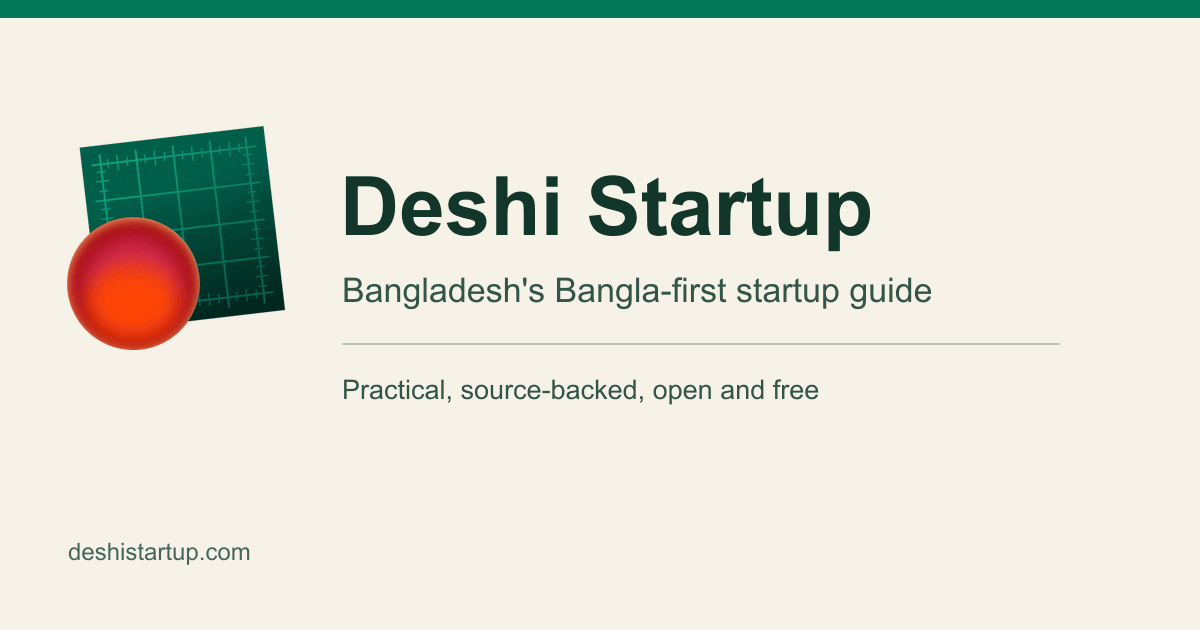
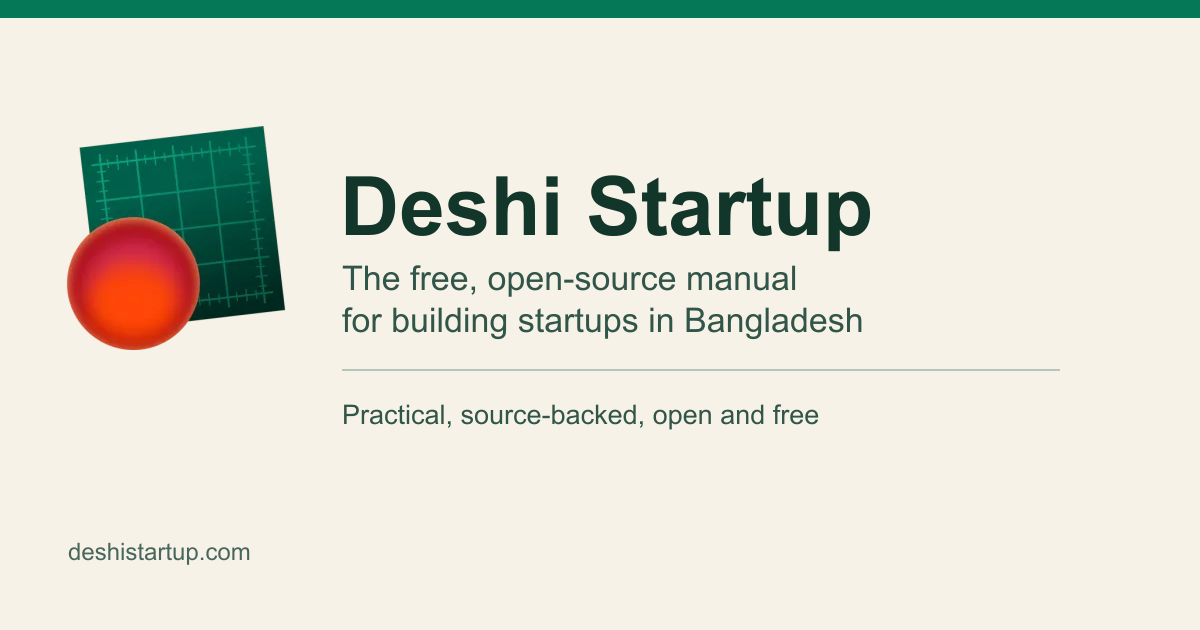
Align Deshi Startup positioning (#87)

Changed region(s): [[0.2775, 0.4222, 0.8633, 0.6937]]

diff --git a/app/components/WikiLanding.tsx b/app/components/WikiLanding.tsx
@@ -53,7 +53,7 @@ interface TranslationStrings {
 }
 
 const bn: TranslationStrings = {
-  kicker: 'বাংলাদেশে স্টার্টআপ গড়ার উন্মুক্ত গাইড',
+  kicker: 'বাংলাদেশে স্টার্টআপ গড়ার ফ্রি, ওপেন-সোর্স ম্যানুয়াল',
   title: 'দেশি স্টার্টআপ',
   subtitle:
     'আইডিয়া থেকে প্রথম কাস্টমার, ট্রেড লাইসেন্স থেকে পেমেন্ট, ফান্ডিং থেকে স্কেল। কী করবেন, ধাপে ধাপে সহজ বাংলায়।',
@@ -77,11 +77,11 @@ const bn: TranslationStrings = {
     'আইন, কর, ভ্যাট, ব্যাংকিং বা লাইসেন্স নিয়ে লেখাগুলো আপনাকে সিদ্ধান্ত নিতে সাহায্য করবে, তবে এগুলো আইনি বা কর পরামর্শ নয়। ফি, ফর্ম ও প্রক্রিয়া বদলাতে পারে, তাই কাজে নামার আগে সরকারি সোর্স দেখে নিন। দরকার হলে চার্টার্ড অ্যাকাউন্ট্যান্ট বা আইনজীবীর সঙ্গে মিলিয়ে নিন।',
   infoboxTitle: 'এক নজরে',
   infoboxName: 'দেশি স্টার্টআপ',
-  infoboxTagline: 'বাংলাদেশে স্টার্টআপ গড়ার উন্মুক্ত গাইড',
+  infoboxTagline: 'বাংলাদেশে স্টার্টআপ গড়ার ফ্রি, ওপেন-সোর্স ম্যানুয়াল',
   infobox: (written, stubs) => [
     ['যাদের জন্য', 'নতুন ফাউন্ডার, শিক্ষার্থী ও নারী উদ্যোক্তা, স্টার্টআপ টিম, প্রবাসী ফাউন্ডার'],
     ['যা পাবেন', 'আইডিয়া যাচাই, রেজিস্ট্রেশন, পেমেন্ট, বিক্রি, নিয়োগ, ফান্ডিং'],
-    ['ভাষা', 'সহজ বাংলা, দরকারি ইংরেজি টার্ম ব্যাখ্যাসহ'],
+    ['ভাষা', 'বাংলা ও ইংরেজি'],
     ['মূল্য', 'সম্পূর্ণ ফ্রি ও ওপেন সোর্স'],
     ['গাইড', `${bengaliDigits(written)}টি লেখা হয়েছে · ${bengaliDigits(stubs)}টি লেখার অপেক্ষায়`]
   ],
@@ -141,7 +141,7 @@ const bn: TranslationStrings = {
 }
 
 const en: TranslationStrings = {
-  kicker: 'The Bangladeshi startup manual',
+  kicker: 'The free, open-source manual for building startups in Bangladesh',
   title: 'Deshi Startup',
   subtitle:
     'Step-by-step guidance in plain language – from idea to first customer, trade license to payments, funding to scale.',
@@ -164,11 +164,11 @@ const en: TranslationStrings = {
     'Articles about law, tax, VAT, banking or licensing help you decide, but they are not legal or tax advice. Fees, forms and processes change; confirm with official sources and, where needed, a chartered accountant or lawyer before acting.',
   infoboxTitle: 'At a glance',
   infoboxName: 'Deshi Startup',
-  infoboxTagline: 'The Bangladeshi startup manual',
+  infoboxTagline: 'The free, open-source manual for building startups in Bangladesh',
   infobox: (written, stubs) => [
     ['For', 'New and women founders, student founders, startup teams, diaspora founders'],
     ['Covers', 'Idea validation, registration, payments, sales, hiring, funding'],
-    ['Language', 'Simple Bangla; English terms explained'],
+    ['Language', 'Bangla and English'],
     ['Price', 'Completely free; open source'],
     ['Guides', `${written} written · ${stubs} waiting for writers`]
   ],

diff --git a/app/components/LocalizedLayout.tsx b/app/components/LocalizedLayout.tsx
@@ -623,7 +623,7 @@ export default function LocalizedLayout({ children }: LocalizedLayoutProps) {
   useEffect(() => {
     document.documentElement.lang = isEn ? 'en' : 'bn'
     if (pathname === '/en') {
-      document.title = 'Deshi Startup – The Bangla-first guide to building a startup in Bangladesh'
+      document.title = 'Deshi Startup – The free, open-source manual for building startups in Bangladesh'
     }
   }, [isEn, pathname])
 
@@ -705,7 +705,7 @@ export default function LocalizedLayout({ children }: LocalizedLayoutProps) {
             <img src={localHref('/deshi-mark.webp')} alt="" width="50" height="50" />
             <span>
               <strong>{isEn ? 'Deshi Startup' : 'দেশি স্টার্টআপ'}</strong>
-              <small>{isEn ? 'The Bangladeshi startup manual' : 'বাংলাদেশে স্টার্টআপ গড়ার গাইড'}</small>
+              <small>{isEn ? 'Startup manual for Bangladesh' : 'বাংলাদেশে স্টার্টআপ গড়ার ম্যানুয়াল'}</small>
             </span>
           </a>
 
@@ -716,7 +716,7 @@ export default function LocalizedLayout({ children }: LocalizedLayoutProps) {
           <nav className="top-actions" aria-label={isEn ? 'Site actions' : 'সাইটের কাজ'}>
             {/* Both social links carry an aria-label: below 1180px the span is
                 display:none, which drops it from the accessibility tree, and
-                the icon is aria-hidden — without the label the link would have
+                the icon is aria-hidden; without the label the link would have
                 no accessible name at all in that range. */}
             <a
               className="social-link"

diff --git a/app/not-found.tsx b/app/not-found.tsx
@@ -4,8 +4,8 @@ import React, { useEffect, useState } from 'react'
 
 /**
  * One 404 document serves both trees, so the language cannot be decided at
- * build time. Render the Bengali source of truth first (it is the majority
- * case and the correct default), then correct to English after mount if the
+ * build time. Render the Bengali root-route locale first (it is the majority
+ * case), then correct to English after mount if the
  * reader actually landed under /en/. Reading the path in an effect rather
  * than during render keeps the server and first client pass identical, so
  * there is no hydration mismatch.

diff --git a/app/layout.tsx b/app/layout.tsx
@@ -16,7 +16,7 @@ j=d.createElement(s),dl=l!='dataLayer'?'&l='+l:'';j.async=true;j.src=
 
 export const metadata = {
   title: {
-    default: 'দেশি স্টার্টআপ – বাংলাদেশে স্টার্টআপ গড়ার উন্মুক্ত গাইড',
+    default: 'দেশি স্টার্টআপ – বাংলাদেশে স্টার্টআপ গড়ার ফ্রি, ওপেন-সোর্স ম্যানুয়াল',
     template: '%s | দেশি স্টার্টআপ'
   },
   description: DEFAULT_DESCRIPTIONS.bn,

diff --git a/app/(contents)/en/layout.tsx b/app/(contents)/en/layout.tsx
@@ -3,7 +3,7 @@ import { DEFAULT_DESCRIPTIONS } from '../../seo.config.mjs'
 
 export const metadata = {
   title: {
-    default: 'Deshi Startup – The Bangladeshi startup manual',
+    default: 'Deshi Startup – The free, open-source manual for building startups in Bangladesh',
     template: '%s | Deshi Startup'
   },
   description: DEFAULT_DESCRIPTIONS.en

diff --git a/plan/vision.md b/plan/vision.md
@@ -1,9 +1,9 @@
 # Vision
 
 Most startup guidance available to a founder in Bangladesh is scattered, written for another
-market/language or difficult to judge. Deshi Startup brings reliable sources and Bangladesh's practical
-experience together in one free, open manual, written in English with every guide available in
-natural Bangla.
+market or language, or difficult to judge. Deshi Startup brings reliable sources and Bangladesh's
+practical experience together in one free, open-source manual, published in matching Bangla and
+English editions.
 
 ## Mission
 
@@ -30,7 +30,10 @@ Every finished guide should be:
 
 - **Bangladesh-specific:** it accounts for local regulation, payments, sales behavior, logistics,
   trust, language and capital constraints.
-- **English-first, Bangla-native:** English is the canonical source edition; the Bangla edition is translated from the finished English guide and must read as if composed in Bangla, never as a word-for-word translation.
+- **Bangla and English:** every finished guide is published in matching English and Bangla
+  editions. English is the canonical authoring edition; the Bangla edition is translated from the
+  finished English guide and must read as if composed in Bangla, never as a word-for-word
+  translation. Both editions pass the same finish gates.
 - **Source-backed:** consequential claims use official or primary sources first, with dates where
   facts may change.
 - **Practical:** it helps the reader make a decision, complete a task or avoid a real mistake.
@@ -47,7 +50,8 @@ documents or harmful shortcuts.
 1. Start with a real founder question or task.
 2. Research official and primary sources for rules, fees and consequential claims.
 3. Use founder and specialist experience to explain what the formal sources do not show.
-4. Turn that evidence into a plain-English guide with a clear next action and, when useful, a checklist or tool; then translate it into natural Bangla.
+4. Turn that evidence into a plain-English guide with a clear next action and, when useful, a
+   checklist or tool; then produce the matching natural-Bangla edition and review both.
 5. Review the change publicly through a pull request. Credit people only with their permission.
 6. Re-check information that can change and correct it openly.
 
@@ -74,9 +78,10 @@ First make the manual useful, trusted and maintainable. Do not distract the team
 assistant, complex admin system, paid marketplace or legal automation. A future assistant may use
 only reviewed content, cite its sources, show freshness and admit uncertainty.
 
-Once the manual is strong, its material may support an open startup curriculum, original research
-and distribution through universities or other institutions. Those are extensions of the manual,
-not reasons to delay it.
+Alongside the manual, Deshi Startup may gradually grow a founder community, practical tools, shared
+infrastructure, an open startup curriculum and original research. Keep those extensions free and
+open source where practical, and use them to strengthen the manual rather than distract from or
+delay it.
 
 ## Success
 
@@ -85,6 +90,7 @@ Deshi Startup is working when:
 - a founder can reach a safe, useful next action without getting lost;
 - Bangladesh-specific realities are easier to understand and navigate;
 - important pages are cited, dated and corrected when circumstances change;
+- both editions remain accurate, useful and maintained;
 - Bengali explanations feel natural and usable;
 - founders and specialists make corrections, share experience and return to contribute again; and
 - the site remains free, fast, open and credible as it grows.

diff --git a/README.md b/README.md
@@ -21,12 +21,13 @@
 থাকলেও বাংলাদেশের অফিস-আদালত, বাজার, পেমেন্ট ব্যবস্থা আর মানুষের আস্থা তৈরির ধরন
 আলাদা। তাই সব পরামর্শ এখানে খাটে না।
 
-দেশি স্টার্টআপে আমরা এই ছড়ানো তথ্য যাচাই করে কাজে লাগানোর মতো বাংলায় বুঝিয়ে বলি।
+দেশি স্টার্টআপে আমরা এই ছড়ানো তথ্য যাচাই করে কাজে লাগানোর মতো করে বুঝিয়ে বলি।
 পাঠক আইন-কানুন, হিসাব বা স্টার্টআপের ভাষা আগে থেকেই জানেন, আমরা এমন ধরে নিই না।
 লক্ষ্য হলো, প্রথমবারের একজন ফাউন্ডার যেন পেজটি পড়ে বুঝতে পারেন এখন কী করবেন, কোথায়
 যাবেন আর কোন তথ্য আবার মিলিয়ে নেবেন।
 
-বাংলা মূল সংস্করণ। একই পেজের ইংরেজি সংস্করণ `/en/...` পথে পাওয়া যায়।
+প্রতিটি পূর্ণ গাইড বাংলা ও ইংরেজি, দুই ভাষাতেই পাওয়া যায়। ইংরেজি পেজগুলো `/en/...`
+পথে থাকে, আর দুই সংস্করণের তথ্য ও সূত্র মিলিয়ে রাখা হয়।
 
 ## কী পাবেন
 
@@ -79,6 +80,11 @@
 
 তবু এটি সরকারি সেবা বা ব্যক্তিগত আইনি ও কর পরামর্শ নয়। বড় সিদ্ধান্ত নেওয়ার আগে
 চলতি সরকারি তথ্য মিলিয়ে নিন, দরকার হলে আইনজীবী, সিএ বা উপযুক্ত পেশাজীবীর সঙ্গে কথা বলুন।
+
+## ম্যানুয়ালের বাইরেও
+
+এখন আমাদের কাজের মূল জায়গা ম্যানুয়াল। পরে এর পাশে ফাউন্ডার কমিউনিটি, কাজের টুল ও
+দরকারি অবকাঠামো তৈরি হতে পারে। সম্ভব হলে সেগুলোও ফ্রি ও ওপেন সোর্স থাকবে।
 
 ## পরিকল্পনাও উন্মুক্ত
 

diff --git a/README.en.md b/README.en.md
@@ -1,10 +1,10 @@
 <div align="center">
 
-<a href="https://deshistartup.com/en"><img src=".github/assets/social-preview.png" alt="Deshi Startup – the open-source manual for building a startup in Bangladesh" width="720" /></a>
+<a href="https://deshistartup.com/en"><img src=".github/assets/social-preview.png" alt="Deshi Startup – the open-source manual for building startups in Bangladesh" width="720" /></a>
 
 # Deshi Startup
 
-**The free, open-source manual for building a startup in Bangladesh**
+**The free, open-source manual for building startups in Bangladesh**
 
 [Read the site](https://deshistartup.com/en) · [বাংলা README](./README.md)
 
@@ -21,11 +21,12 @@ the practical knowledge is scattered across Facebook posts and personal experien
 guides can offer useful ideas, but their advice does not always survive contact with Bangladesh's
 offices, markets, payment systems and trust constraints.
 
-Deshi Startup checks that scattered information and explains it in practical Bangla. It does not
-assume that a first-time founder already speaks the language of law, accounting or startups. A
-useful page should leave the reader knowing what to do next, where to go and what to verify again.
+Deshi Startup checks that scattered information and explains it clearly. It does not assume that a
+first-time founder already speaks the language of law, accounting or startups. A useful page
+should leave the reader knowing what to do next, where to go and what to verify again.
 
-Bengali is the source edition. Matching English pages live under `/en/...`.
+Every completed guide is available in Bangla and English. English pages live under `/en/...`, and
+the two editions keep their information and sources in step.
 
 ## What you will find
 
@@ -78,6 +79,12 @@ Read the [contribute page](https://deshistartup.com/en/contribute) for the brows
 This remains general guidance, not a government service or personal legal or tax advice. Confirm
 consequential decisions against current official information and consult an appropriate
 professional when needed.
+
+## Beyond the manual
+
+The manual is the current focus. Over time, Deshi Startup may also support a founder community,
+practical tools and shared infrastructure. Where practical, that work will also be free and open
+source.
 
 ## Open planning
 

diff --git a/STYLE.md b/STYLE.md
@@ -4,7 +4,9 @@
 খসড়ার অনুবাদ না শোনায়। একজন অভিজ্ঞ বাংলাদেশি ফাউন্ডার চায়ের টেবিলে নতুন ফাউন্ডারকে
 যেভাবে বোঝাতেন, সেই স্বর ধরুন।
 
-গবেষণা, উদাহরণ ও শেখানোর নিয়ম [EDITORIAL.md](./EDITORIAL.md)-এ আছে। বাংলা পেজ এখন ইংরেজি মূল সংস্করণের অনুবাদ। অনুবাদের নিয়ম `translate-bangla-guide` দক্ষতায় আছে, আর এই নথি সেই অনুবাদের ভাষার মান।
+গবেষণা, উদাহরণ ও শেখানোর নিয়ম [EDITORIAL.md](./EDITORIAL.md)-এ আছে। সম্পাদনার কাজ
+ইংরেজি গাইড দিয়ে শুরু হয়। ইংরেজি গাইড শেষ হলে বাংলা সংস্করণ তৈরি করা হয়। অনুবাদের
+নিয়ম `translate-bangla-guide` দক্ষতায় আছে, আর এই নথি সেই অনুবাদের ভাষার মান।
 
 ## লেখার পদ্ধতি
 

diff --git a/AGENTS.md b/AGENTS.md
@@ -7,14 +7,16 @@ Read this before changing the project. For priorities and planned content, start
 ## Mission and scope
 
 Deshi Startup is a free, open-source operating manual for founders building new, scalable
-businesses in Bangladesh, written in English with a Bangla translation of every guide.
+businesses in Bangladesh, published in Bangla and English. Each completed guide is available in
+both languages.
 Registration, tax, payments and hiring guides may also help small businesses, but the project
 does not broaden its scope to become a generic SME, family-business, import/export or online-seller
 portal.
 
 English is the canonical authoring edition; the Bangla edition is translated from the finished
-English guide with the `translate-bangla-guide` skill. A page counts as written only when it is a
-real guide without `<StubNotice />`; run `npm run backlog:status` for current counts.
+English guide with the `translate-bangla-guide` skill. Both editions use the same standards for
+evidence, accuracy and practical usefulness. A page counts as written only when it is a real guide
+without `<StubNotice />`; run `npm run backlog:status` for current counts.
 
 ## Architecture
 

diff --git a/LICENSE-content.md b/LICENSE-content.md
@@ -22,10 +22,10 @@ including commercially, as long as you:
 
 ## Why CC BY-SA 4.0
 
-This project's mission is a Bangla-first knowledge base that anyone can use,
-copy, and improve — including other sites, courses, and translations. The
-share-alike clause keeps the knowledge open rather than letting a derivative
-work get relicensed and locked away.
+This project's mission is a free, open-source manual for building startups in
+Bangladesh that anyone can use, copy, and improve — including other sites,
+courses, and translations. The share-alike clause keeps the knowledge open
+rather than letting a derivative work get relicensed and locked away.
 
 ## Contributions
 
